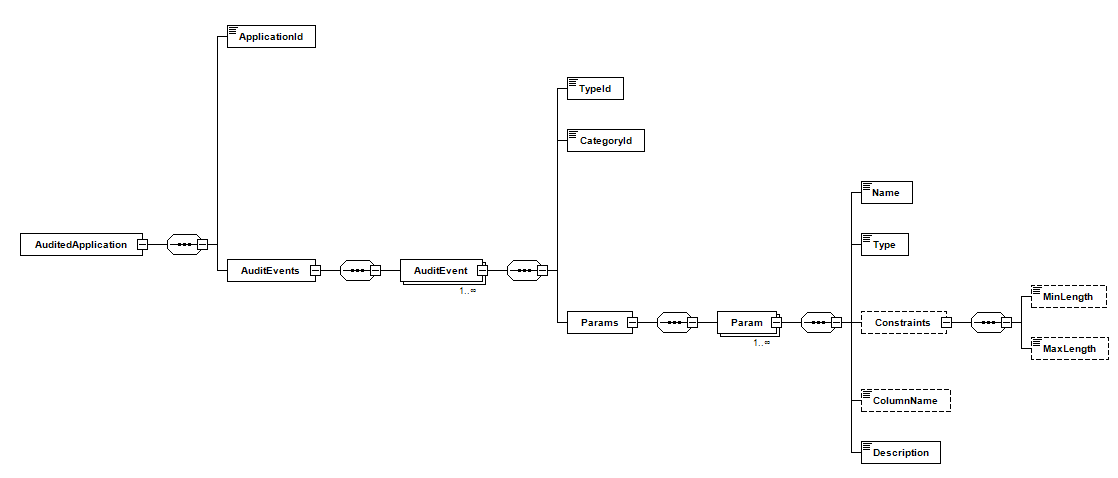
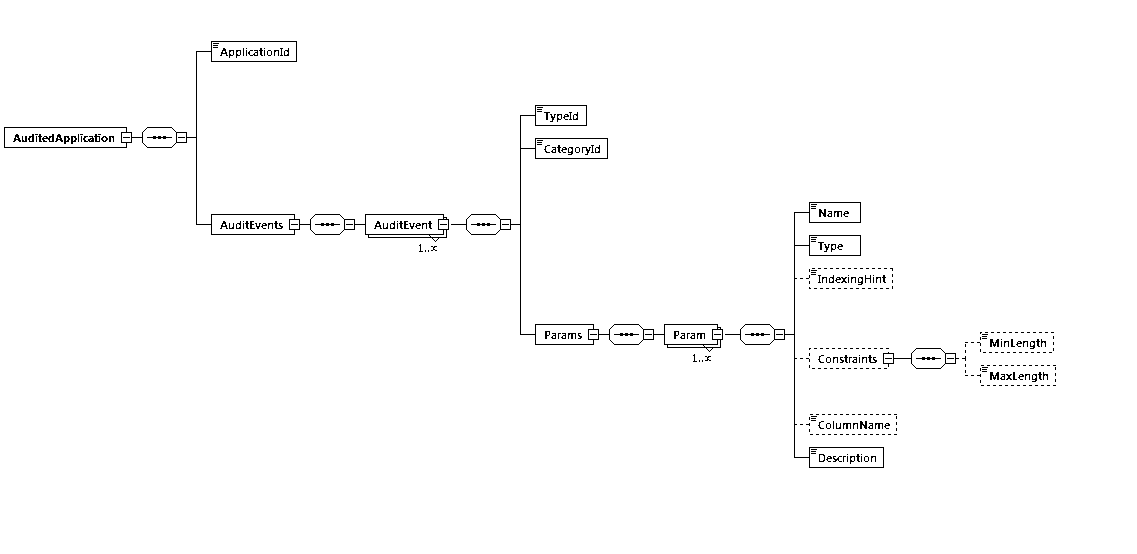
CAF-2693: Documentation changes as a result of audit schema change.

diff --git a/caf-audit-maven-plugin/caf-audit-maven-plugin.md b/caf-audit-maven-plugin/caf-audit-maven-plugin.md
@@ -35,12 +35,13 @@ provided next.
         <Param>
           <Name>policyName</Name>
           <Type>string</Type>
-          <Description>Policy Name</Description >
 		  <IndexingHint>keyword</IndexingHint>
+          <Description>Policy Name</Description >
         </Param>
         <Param>
           <Name>policyDef</Name>
           <Type>string</Type>
+		  <IndexingHint>fulltext</IndexingHint>
           <ColumnName>policyDefinition</ColumnName>
           <Description>Policy definition</Description >
         </Param>
@@ -50,7 +51,7 @@ provided next.
 </AuditedApplication>
 ```
 
-`AuditedApplication` is the root element. `ApplicationId` identifies the name of the application that the audit event type is associated with. For each audit event defined, `TypeId` is a string identifier for the particular event (e.g. viewDocument) and `CategoryId` is a string identifier for the category of event. A list of parameter elements are then defined for each Audit Event. This includes the `Name` of the parameter, the `Type` (i.e. string, short, int, long, float, double, boolean or date) and the `Description`. The `IndexingHint` (i.e. full-text or keyword) is optional and can be used to specify a indexing hint when storing audit event parameter data of `Type` string. The `Constraints` element is also optional and this can be used to specify minimum and/or maximum length constraints for audit event parameters of `Type` string. The `ColumnName` element too is optional which can be used to force the use of a particular database column when storing the audit data.
+`AuditedApplication` is the root element. `ApplicationId` identifies the name of the application that the audit event type is associated with. For each audit event defined, `TypeId` is a string identifier for the particular event (e.g. viewDocument) and `CategoryId` is a string identifier for the category of event. A list of parameter elements are then defined for each Audit Event. This includes the `Name` of the parameter, the `Type` (i.e. string, short, int, long, float, double, boolean or date) and the `Description`. The `IndexingHint` (i.e. fulltext or keyword) is optional and can be used to specify an indexing hint when storing audit event parameter data of `Type` string. The `Constraints` element is also optional and this can be used to specify minimum and/or maximum length constraints for audit event parameters of `Type` string. The `ColumnName` element too is optional which can be used to force the use of a particular database column when storing the audit data. 
 
 ## Application POM 
 
@@ -132,8 +133,8 @@ Using the sample XML above, the CAF Audit plugin will auto-generate the followin
         auditEventBuilder.setUser(userId);
         auditEventBuilder.setEventType("policyEvents", "policyApplied");
         auditEventBuilder.addEventParameter("policyId", null, policyId);
-        auditEventBuilder.addEventParameter("policyName", null, policyName, "keyword");
-        auditEventBuilder.addEventParameter("policyDef", "policyDefinition", policyDef, null);
+        auditEventBuilder.addEventParameter("policyName", null, policyName, AuditIndexingHint.KEYWORD);
+        auditEventBuilder.addEventParameter("policyDef", "policyDefinition", policyDef, AuditIndexingHint.FULLTEXT);
 
         auditEventBuilder.send();
     }

diff --git a/caf-audit-schema/README.md b/caf-audit-schema/README.md
@@ -19,9 +19,9 @@ An example of an Audit Event Definition File is shown next:
 	      <CategoryId>documentEvents</CategoryId>
 	      <Params>
 	        <Param>
-	          <Name>docId</Name>
-	          <Type>long</Type>
-	          <Description>Document Identifier</Description>
+                <Name>docId</Name>
+                <Type>long</Type>
+                <Description>Document Identifier</Description>
 	        </Param>
 	      </Params>
 	    </AuditEvent>
@@ -30,18 +30,19 @@ An example of an Audit Event Definition File is shown next:
 	      <CategoryId>documentEvents</CategoryId>
 	      <Params>
 	        <Param>
-	          <Name>docId</Name>
-	          <Type>long</Type>
-	          <Description>Document Identifier</Description>
+                <Name>docId</Name>
+                <Type>long</Type>
+                <Description>Document Identifier</Description>
 	        </Param>
 	        <Param>
-	          <Name>authorisedBy</Name>
-	          <Type>string</Type>
-			  <Constraints>
-				<MinLength>1</MinLength>
-				<MaxLength>256</MaxLength>
-			  </Constraints>
-	          <Description>User who authorised the deletion</Description>
+                <Name>authorisedBy</Name>
+                <Type>string</Type>
+                <IndexingHint>keyword</IndexingHint>
+                <Constraints>
+                    <MinLength>1</MinLength>
+                    <MaxLength>256</MaxLength>
+                </Constraints>
+                <Description>User who authorised the deletion</Description>
 	        </Param>
 	      </Params>
 	    </AuditEvent>
@@ -59,7 +60,7 @@ An example of an Audit Event Definition File is shown next:
 For each Audit Event defined, `TypeId` is a string identifier for the particular event (e.g. viewDocument) and 
 `CategoryId` is a string identifier for the category of the event.
 
-A list of parameter elements are then defined for each Audit Event. This includes the `Name` of the parameter, the `Type` (i.e. string, short, int, long, float, double, boolean or date) and the `Description`. The `IndexingHint` (i.e. fulltext or keyword) is optional and can be used to specify a indexing hint when storing audit event parameter data of `Type` string. The `Constraints` element is also optional and this can be used to specify minimum and/or maximum length constraints for audit event parameters of `Type` string. The `ColumnName` element too is optional which can be used to force the use of a particular database column when storing the audit data.  
+A list of parameter elements are then defined for each Audit Event. This includes the `Name` of the parameter, the `Type` (i.e. string, short, int, long, float, double, boolean or date) and the `Description`. The `IndexingHint` (i.e. fulltext or keyword) is optional and can be used to specify an indexing hint when storing audit event parameter data of `Type` string. The `Constraints` element is also optional and this can be used to specify minimum and/or maximum length constraints for audit event parameters of `Type` string. The `ColumnName` element too is optional which can be used to force the use of a particular database column when storing the audit data.
 
 ## Using the Schema File
 

diff --git a/docs/pages/en-us/Getting-Started.md b/docs/pages/en-us/Getting-Started.md
@@ -57,6 +57,7 @@ A list of parameter elements are then defined for each audit event, including th
 - `Name`
 - `Type` (string, short, int, long, float, double, boolean or date)
 - `Description`
+- `IndexingHint` (optional) can be used to specify an indexing hint (fulltext or keyword) when storing audit event parameter data of `Type` string.
 - `ColumnName` (optional) can be used to force the use of a particular database column to store the audit data. 
 - `Constraints` (optional) can be used to specify minimum and/or maximum length constraints for audit event parameters of `Type` string.
 
@@ -103,6 +104,7 @@ The following is an example of an audit event definition file used throughout th
 	        <Param>
 	          <Name>authorisedBy</Name>
 	          <Type>string</Type>
+			  <IndexingHint>keyword</IndexingHint>
 			  <Constraints>
 				<MinLength>1</MinLength>
 				<MaxLength>256</MaxLength>
@@ -140,7 +142,7 @@ The following sample Maven project file generates a client-side auditing library
 	        <dependency>
 	            <groupId>com.github.cafaudit</groupId>
 	            <artifactId>caf-audit</artifactId>
-	            <version>3.0.0</version>
+	            <version>3.1.0</version>
 	        </dependency>
 	    </dependencies>
 	
@@ -149,7 +151,7 @@ The following sample Maven project file generates a client-side auditing library
 	            <plugin>
 	                <groupId>com.github.cafaudit</groupId>
 	                <artifactId>caf-audit-maven-plugin</artifactId>
-	                <version>3.0.0</version>
+	                <version>3.1.0</version>
 	                <executions>
 	                    <execution>
 	                        <id>generate-code</id>
@@ -184,7 +186,7 @@ The generated library has a dependency on `caf-audit`, which the generated code 
 	    <dependency>
 	        <groupId>com.github.cafaudit</groupId>
 	        <artifactId>caf-audit</artifactId>
-	        <version>3.0.0</version>
+	        <version>3.1.0</version>
 	    </dependency>
 	</dependencies>
 
@@ -197,7 +199,7 @@ The `xmltojava` goal of the code generation plugin is used to generate the Java 
 	        <plugin>
 	            <groupId>com.github.cafaudit</groupId>
 	            <artifactId>caf-audit-maven-plugin</artifactId>
-	            <version>3.0.0</version>
+	            <version>3.1.0</version>
 	            <executions>
 	                <execution>
 	                    <id>generate-code</id>

diff --git a/docs/pages/en-us/Client-API.md b/docs/pages/en-us/Client-API.md
@@ -183,8 +183,8 @@ The `AuditEventBuilder` object is created using the `createEventBuilder()` metho
 	// Add Event Parameters
 		// Add an Event Parameter for holding the Document ID that was deleted
 	auditEventBuilder.addEventParameter("docId", null, docId);
-		// Add an Event Parameter for holding the User who authorised the deletion of the document. Add length constraints for this parameter as it is of type String
-	auditEventBuilder.addEventParameter("authorisedBy", null, authorisedBy, 1, 256);
+		// Add an Event Parameter for holding the User who authorised the deletion of the document. Include an indexing hint and add length constraints for this parameter as it is of type String
+	auditEventBuilder.addEventParameter("authorisedBy", null, authorisedBy, AuditIndexingHint.KEYWORD, 1, 256);
 	
 	// Send the constructed event to storage
 	auditEventBuilder.send();

diff --git a/caf-audit-maven-plugin/README.md b/caf-audit-maven-plugin/README.md
@@ -95,7 +95,7 @@ Using the sample audit events XML specified in the [Audit Event Definition File]
 	    auditEventBuilder.setCorrelationId(correlationId);
 	    auditEventBuilder.setEventType("documentEvents", "deleteDocument");
 	    auditEventBuilder.addEventParameter("docId", null, docId);
-	    auditEventBuilder.addEventParameter("authorisedBy", null, authorisedBy, "keyword", 1, 256);
+	    auditEventBuilder.addEventParameter("authorisedBy", null, authorisedBy, AuditIndexingHint.KEYWORD, 1, 256);
 	
 	    auditEventBuilder.send();
 	}
